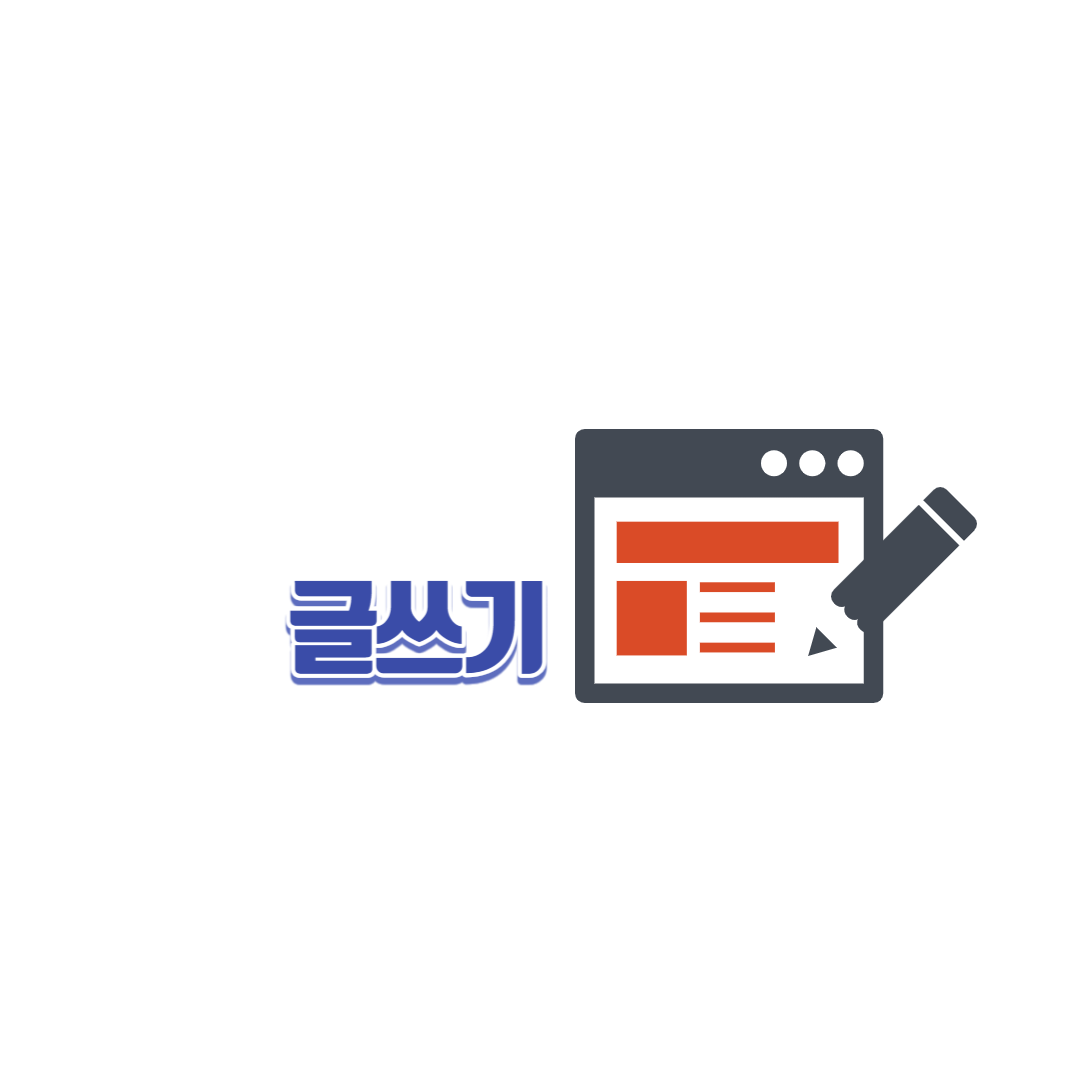
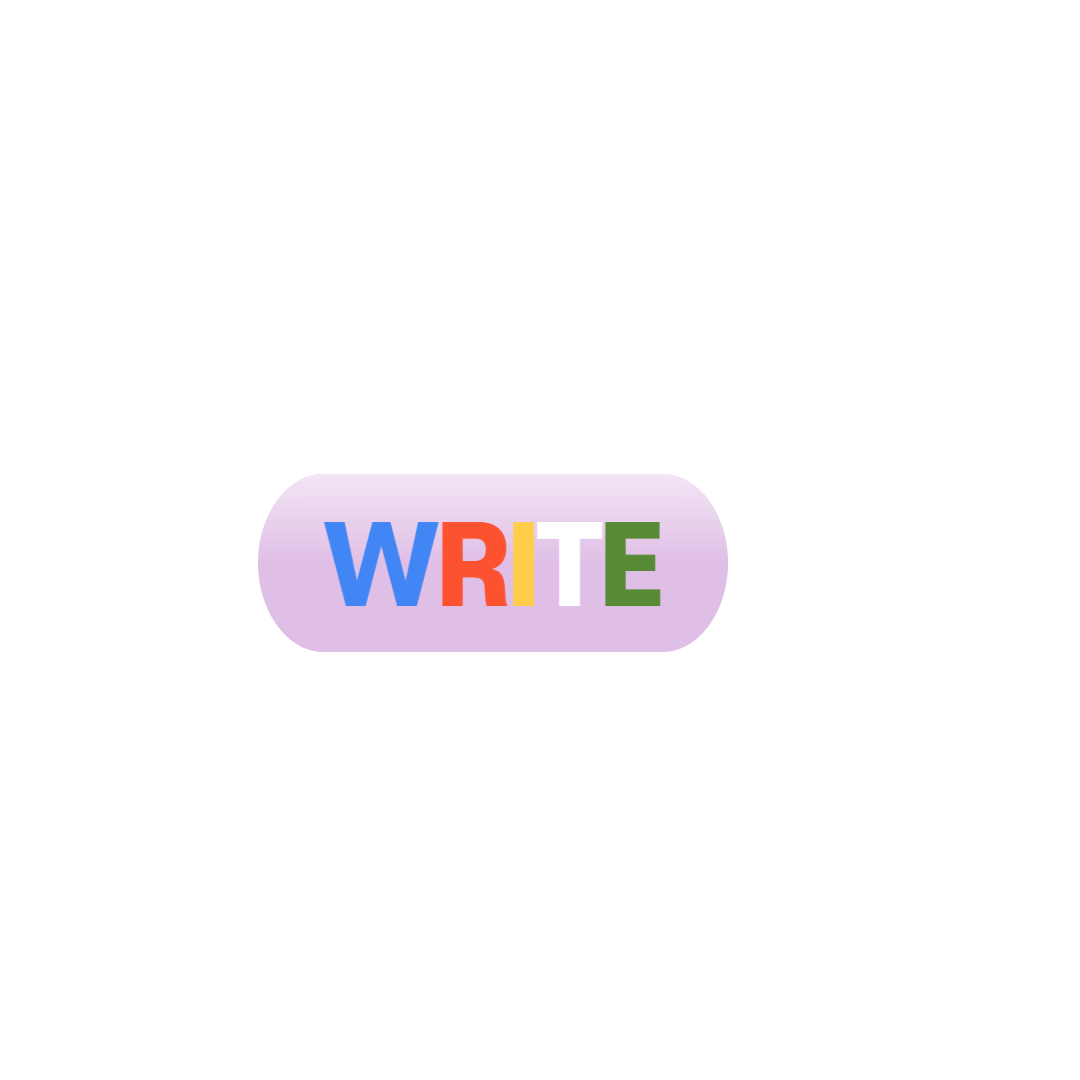
1

Changed region(s): [[0.2139, 0.3972, 0.9167, 0.6722]]

diff --git a/web/src/main/webapp/css/communitypagestyle.css b/web/src/main/webapp/css/communitypagestyle.css
@@ -4,20 +4,24 @@
 
 /* 공통사항 */
 body {overflow-x: hidden; font-family: 'Noto Sans KR', sans-serif; font-size: 1.6rem; line-height: 1.6; color: #000; }
-#wrap {width: 100%; background: black;}
+#wrap {width: 100%; background: rgba(160, 25, 238, 0.6)
+}
 *{margin: 0; padding: 0;}
 
+#header {max-height: 400px; background: white}
+
 ul{list-style: none;}
-h1{padding: 30px 0 20px 100px; color: rgb(50,30,10); }
-h1 a {text-decoration: none; color: rgb(200, 10, 45); font-weight: 700; font-size: 3rem;}
+
+h1 {text-align: center}
+h1 a img {width: 400px; height: 400px;}
 .login{translate: 1500px; display: flex; }
-.login li{transform: translate(0, -3px); }
-.login a {text-decoration: none; color: #fdf7f7; padding: 0 5px; font-size: 1.1rem; font-weight: 700;}
+.login li{transform: translate(0, -150px); }
+.login a {text-decoration: none; color: black; padding: 0 5px; font-size: 1.1rem; font-weight: 700;}
 
 #menu{
     width: 100%;
     display: block;
-    padding-top: 10px;
+    transform: translate(0, -150px);
 }
 #menu ul{
     display: flex;
@@ -45,8 +49,20 @@ h1 a {text-decoration: none; color: rgb(200, 10, 45); font-weight: 700; font-siz
     margin: 50px auto;
 }
 
-.container{min-height: 600px; transform: translate(0, 60px);}
+.container{min-height: 600px; transform: translate(0, 100px);}
 
-.write_btn img {width: 200px; transform: translate(900px, -330px);}
+.write_btn img {width: 200px; transform: translate(900px, -250px);}
 
-#footer {text-align: center; padding: 100px 0 50px 0; font-size: 1.2rem; color: #8f8a8a;}
+.image {display: flex; transform: translate(-400px,100px); animation: slide 6s ;
+    animation-iteration-count: infinite;}
+.image img {width: 500px}
+
+@keyframes slide {
+    0% { transform: translate(-100%,100%) }
+    20% { transform: translate(-50%,100%); }
+    50% { transform: translate(0%,100%); }
+    70% { transform: translate(50%,100%); }
+    100% { transform: translate(100%,100%) ; }
+}
+
+#footer {background: white}
